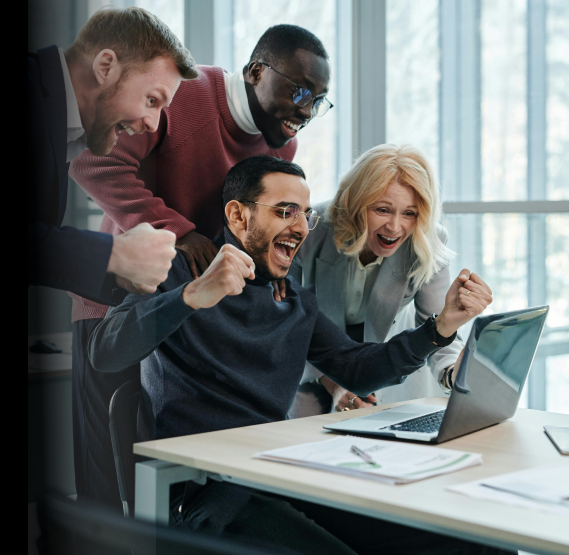
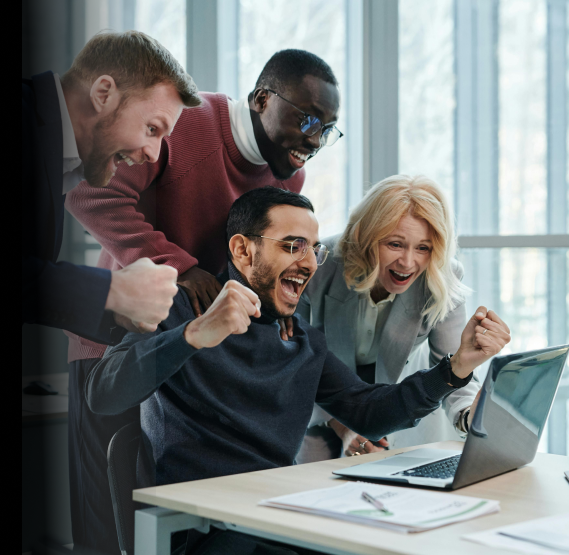
image de accueil

diff --git a/src/ui/components/accueil/ticket.tsx b/src/ui/components/accueil/ticket.tsx
@@ -4,7 +4,7 @@ import React from "react";
 import Container from "../container/container";
 import Typography from "@/ui/designSystem/typography/typography";
 import Image from "next/image";
-import Button from "@/ui/designSystem/button/button";
+//import Button from "@/ui/designSystem/button/button";
 
 export default function Ticket() {
   return (
@@ -17,23 +17,23 @@ export default function Ticket() {
           Nos tickets <span className="text-primary">gagnants</span>{" "}
         </Typography>
         <div className="grid grid-cols-1 md:grid-cols-2 lg:grid-cols-3 gap-4 mt-4">
-          <div className="bg-white rounded-lg shadow-md p-4">
-            <Image src="" alt="Ticket 1" width={100} height={100} />
-            <Typography theme="gray" className="mt-2">
+          <div className="bg-white rounded-lg shadow-md">
+            <Image src="/assets/images/ticket1.png" alt="Ticket 1" width={600} height={100} />
+            {/* <Typography theme="gray" className="mt-2">
               Ticket 1
-            </Typography>
+            </Typography> */}
           </div>
-          <div className="bg-white rounded-lg shadow-md p-4">
-            <Image src="" alt="Ticket 2" width={100} height={100} />
+          <div className="bg-white rounded-lg shadow-md">
+            <Image src="/assets/images/ticket2.png" alt="Ticket 2" width={600} height={100} />
           </div>
-          <div className="bg-white rounded-lg shadow-md p-4">
-            <Image src="" alt="Ticket 2" width={100} height={100} />
+          <div className="bg-white rounded-lg shadow-md">
+            <Image src="/assets/images/ticket3.png" alt="Ticket 2" width={600} height={100} />
           </div>
         </div>
       </Container>
-      <hr />
 
-      <Container className="my-4 lg:my-20 grid grid-cols-1 md:grid-cols-3 gap-10">
+      {/* <Container className="my-4 lg:my-20 grid grid-cols-1 md:grid-cols-3 gap-10">
+      <hr className="text-primary-300 sm:p-8" />
         <div></div>
         <div className="col-span-2">
           <Typography variant="h4" >
@@ -47,7 +47,7 @@ export default function Ticket() {
             <Button className="rounded" >Rejoins Instagram</Button>
           </div>
         </div>
-      </Container>
+      </Container> */}
     </div>
   );
 }

diff --git a/src/ui/components/accueil/question.tsx b/src/ui/components/accueil/question.tsx
@@ -4,14 +4,22 @@ import React from "react";
 import Container from "../container/container";
 import Typography from "@/ui/designSystem/typography/typography";
 import Button from "@/ui/designSystem/button/button";
+import Image from "next/image";
 
 export default function Question() {
   return (
-    <div>
-      <Container className="my-20">
-        <div className="grid grid-cols-1 md:grid-cols-2 gap-4">
-          <div></div>
-          <div>
+      <Container className="relative  mb-2 sm:mb-20">
+        <div className="grid grid-cols-1 md:grid-cols-2">
+          <div className="relative w-full h-full min-h-[500px] hidden sm:block">
+            <Image
+              src="/assets/images/suprise3.webp"
+              alt="accueil"
+              layout="fill"
+              objectFit="cover"
+              className="absolute left-[-50px] lg:left-[-100px] inset-0 w-full h-full -translate-x-20 lg:-translate-x-32"
+            />
+          </div>
+          <div className=" mt-2 sm:mt-20">
             <Typography variant="h4" className="text-center">
               Foire aux <span className="text-primary">questions</span>
             </Typography>
@@ -52,13 +60,15 @@ export default function Question() {
           </div>
         </div>
         <hr className="my-15 text-white" />
-        <div className="flex flex-wrap justify-between items-center my-15">
-            <Typography className="h4">Rejoins le <span className="text-primary">Club Parieurs Foot</span>  dès maintenant !</Typography>
-            <div>
-                <Button className="rounded">S{"'"}inscrire maintenant</Button>
-            </div>
+        <div className="flex flex-wrap justify-between items-center py-15">
+          <Typography className="h4">
+            Rejoins le <span className="text-primary">Club Parieurs Foot</span>{" "}
+            dès maintenant !
+          </Typography>
+          <div>
+            <Button className="rounded">S{"'"}inscrire maintenant</Button>
+          </div>
         </div>
       </Container>
-    </div>
   );
 }

diff --git a/src/ui/components/accueil/contact.view.tsx b/src/ui/components/accueil/contact.view.tsx
@@ -8,8 +8,8 @@ import Image from "next/image";
 
 export default function ContactView() {
   return (
-    <Container className="grid grid-cols-1 sm:grid-cols-2 gap-4 overflow-hidden relative">
-      <div className="flex flex-col justify-center space-y-4 py-8 lg:py-24">
+    <Container className="grid grid-cols-1 sm:grid-cols-2 overflow-hidden relative p-4">
+      <div className="flex flex-col justify-center space-y-4 items-center">
         <Typography variant="h4">
           La communauté{" "}
           <span className="text-primary">
@@ -27,11 +27,11 @@ export default function ContactView() {
           <Button className="btn-primary rounded">S{"'"}inscrire maintenant</Button>
         </div>
       </div>
-      <div className="relative w-full">
+      <div className="relative w-full h-[500px] hidden sm:block">
         <Image
           src="/assets/images/accueil.png"
           alt="accueil"
-          width={700} // Augmente la largeur pour dépasser
+          width={800} // Augmente la largeur pour dépasser
           height={450}
           objectFit="cover"
           className="absolute right-[-50px] lg:right-[-100px] hover:scale-105 transition-transform duration-500"

diff --git a/src/ui/components/accueil/rejoindre.tsx b/src/ui/components/accueil/rejoindre.tsx
@@ -19,16 +19,15 @@ export default function Rejoindre() {
         Rejoins la{" "}
         <span className="text-primary">communauté Parieurs Foot</span>{" "}
       </Typography>
-      <Container className="bg-gray lg:mt-10 rounded grid grid-cols-1 md:grid-cols-2 gap-10">
+      <Container className="bg-gray lg:mt-10 rounded grid grid-cols-1 sm:grid-cols-2 relative overflow-hidden">
         {/* Image qui prend toute la droite */}
-        <div className="relative w-full min-h-[500px]">
+        <div className="relative w-full min-h-[500px] hidden sm:block">
           <Image
-            src="/assets/images/ecranParis2.pngo
-            "
+            src="/assets/images/ecranParis2.png"
             alt="accueil"
-            width={900}
+            width={1000}
             height={550}
-            className="object-cover absolute inset-0 w-full h-full hover:scale-105 transition-transform duration-500" 
+            className="object-cover absolute inset-0 w-full h-full left-[-50px] lg:left-[-100px] hover:scale-105 transition-transform duration-500" 
           />
         </div>
         <div className="lg:py-10 py-2">

diff --git a/src/ui/components/accueil/temoignage.tsx b/src/ui/components/accueil/temoignage.tsx
@@ -13,14 +13,14 @@ export default function Temoignage() {
         {/* Card */}
         <div className='flex gap-4 justify-center mt-10'>
           <div>
-            <Image src="" alt="Ticket 2" width={100} height={100} />
+            <Image src="/assets/images/temoignage1.jpg" alt="Ticket 2" width={200} height={100} />
           </div>
           <div>
-            <Image src="" alt="Ticket 2" width={100} height={100} />
+            <Image src="/assets/images/temoignage1.jpg" alt="Ticket 2" width={200} height={100} />
           </div>
-          <div>
+          {/* <div>
             <Image src="" alt="Ticket 2" width={100} height={100} />
-          </div>
+          </div> */}
         </div>
       </Container>
     </div>

diff --git a/src/ui/components/navigation/footer.tsx b/src/ui/components/navigation/footer.tsx
@@ -22,7 +22,7 @@ export default function Footer() {
   ));
 
   return (
-    <div className="py-10 bg-gray">
+    <div className="py-10 bg-gray p-4">
       <Container className="grid grid-cols-1 sm:grid-cols-2 gap-4 lg:grid-cols-3 justify-between pt-4 space-y-4 md:space-y-0 lg:space-x-8">
         <div className="flex flex-col space-y-4  me-2 ">
           <Link href="/">
